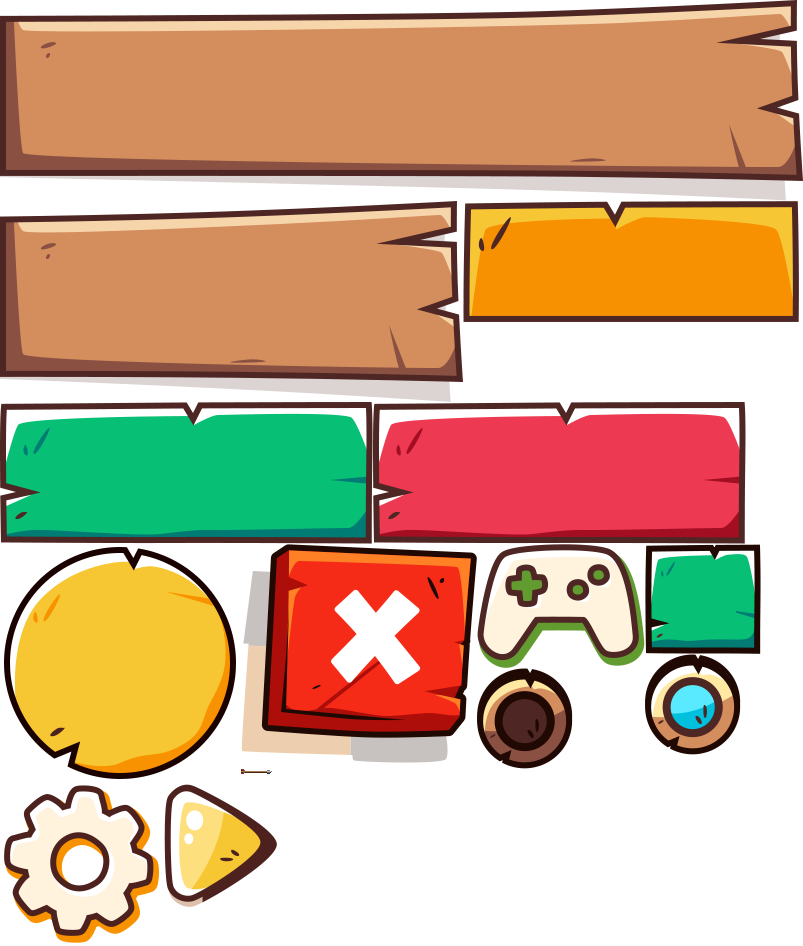
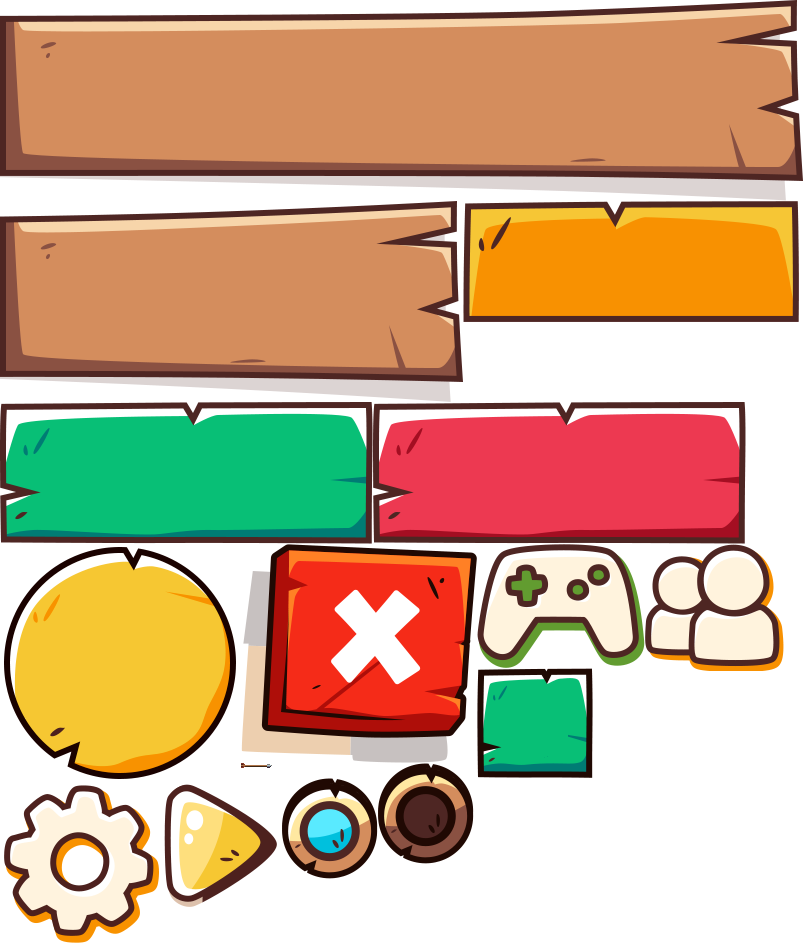
feat: admin button wip

Changed region(s): [[0.3425, 0.7051, 0.7472, 0.9503], [0.7783, 0.5518, 0.9963, 0.797], [0.3113, 0.797, 0.3425, 0.8277]]

diff --git a/src/rpg-multiplayer-game/src/client/src/phaser-client/scenes/Hud.ts b/src/rpg-multiplayer-game/src/client/src/phaser-client/scenes/Hud.ts
@@ -9,6 +9,8 @@ import FontKeys from '../consts/FontKeys';
 import EndOfVotingMenu from '../classes/EndOfVotingMenu';
 import SceneKeys from '../consts/SceneKeys';
 import Modal from '../classes/Modal';
+import UIButton from '../classes/UIButton';
+import UIAdminButton from '../classes/UIAdminButton';
 
 export default class Hud extends Phaser.Scene {
   private votingStats!: Phaser.GameObjects.Group;
@@ -64,53 +66,48 @@ export default class Hud extends Phaser.Scene {
       .onCancel(() => this.newFightModal.hideButtons())
       .onOpen(() => {
         settingsButton.setVisible(false);
-        settingsWheelIcon.setVisible(false);
+        adminSettingsButton.setVisible(false);
         this.votingStats.setVisible(false);
         gameState.playerCanMove = false;
       })
       .onClose(() => {
         settingsButton.setVisible(true);
-        settingsWheelIcon.setVisible(true);
+        adminSettingsButton.setVisible(true);
         this.votingStats.setVisible(false);
         gameState.playerCanMove = true;
       });
 
-    const settingsButton = this.add
-      .image(width - 10, 10, TextureKeys.UIMenu1, 'yellow-button')
-      .setScale(0.2)
-      .setOrigin(1, 0);
-    const settingsWheelIcon = this.add
-      .image(width - 17, 17, TextureKeys.UIMenu1, 'wheel-icon')
-      .setScale(0.2)
-      .setOrigin(1, 0);
+    const settingsButton = new UIButton(
+      this,
+      width - 55,
+      10,
+      TextureKeys.UIMenu1,
+      'wheel-icon',
+      () => this.settingsMenu.toggleMenu(),
+    );
+    this.add.existing(settingsButton);
 
-    settingsButton
-      .setInteractive({ useHandCursor: true })
-      .on(Phaser.Input.Events.GAMEOBJECT_POINTER_OVER, () => {
-        settingsButton.setTint(0xdedede);
-      })
-      .on(Phaser.Input.Events.GAMEOBJECT_POINTER_OUT, () => {
-        settingsButton.setTint(0xffffff);
-      })
-      .on(Phaser.Input.Events.GAMEOBJECT_POINTER_DOWN, () => {
-        settingsButton.setTint(0xf4bf19);
-      })
-      .on(Phaser.Input.Events.GAMEOBJECT_POINTER_UP, () => {
-        settingsButton.setTint(0xffffff);
-        this.settingsMenu.toggleMenu();
-      });
+    const adminSettingsButton = new UIAdminButton(
+      this,
+      width - 110,
+      10,
+      TextureKeys.UIMenu1,
+      'people-icon',
+      () => console.log('click'),
+    );
+    this.add.existing(adminSettingsButton);
 
     this.settingsMenu = new SettingsMenu(this);
     this.endOfVotingMenu = new EndOfVotingMenu(this);
     this.endOfVotingMenu
       .onOpen(() => {
         settingsButton.setVisible(false);
-        settingsWheelIcon.setVisible(false);
+        adminSettingsButton.setVisible(false);
         gameState.playerCanMove = false;
       })
       .onClose(() => {
         settingsButton.setVisible(true);
-        settingsWheelIcon.setVisible(true);
+        adminSettingsButton.setVisible(true);
         gameState.playerCanMove = true;
       });
 
@@ -171,7 +168,10 @@ export default class Hud extends Phaser.Scene {
 
   setPendingVotersLabel() {
     const labels: string[] = [];
-    if (gameVotingManager.totalVotes === 0 || gameVotingManager.pendingVotes === 0) {
+    if (
+      gameVotingManager.totalVotes === 0 ||
+      gameVotingManager.pendingVotes === 0
+    ) {
       this.pendingVotersLabel.setText('').setVisible(false);
       return;
     }
@@ -182,7 +182,7 @@ export default class Hud extends Phaser.Scene {
 
       labels.push(`${player.username}`);
     }
-    
+
     this.pendingVotersLabel
       .setText('Waiting votes from: ' + labels.join(', '))
       .setVisible(true);

diff --git a/src/rpg-multiplayer-game/src/client/src/phaser-client/classes/UIButton.ts b/src/rpg-multiplayer-game/src/client/src/phaser-client/classes/UIButton.ts
@@ -1,0 +1,79 @@
+import Phaser from 'phaser';
+import TextureKeys from '../consts/TextureKeys';
+
+export default class UIButton extends Phaser.GameObjects.Container {
+  protected button!: Phaser.GameObjects.Image;
+  protected icon!: Phaser.GameObjects.Image;
+  protected onInteraction: () => void;
+
+  constructor(
+    scene: Phaser.Scene,
+    x: number,
+    y: number,
+    iconTexture: string | Phaser.Textures.Texture,
+    iconFrame: string | number | undefined,
+    onInteraction?: () => void,
+  ) {
+    super(scene, x, y);
+
+    this.createButton(iconTexture, iconFrame);
+
+    this.onInteraction = onInteraction || (() => {});
+    this.setInteraction();
+  }
+
+  protected createButton(
+    iconTexture: string | Phaser.Textures.Texture,
+    iconFrame: string | number | undefined,
+  ): void {
+    // Create button
+    this.button = this.scene.make
+      .image({
+        key: TextureKeys.UIMenu1,
+        frame: 'yellow-button',
+      })
+      .setScale(0.2)
+      .setOrigin(0, 0);
+
+    // Create Icon
+    this.icon = this.scene.make
+      .image({
+        x: this.button.displayWidth * 0.5,
+        y: this.button.displayHeight * 0.5,
+        key: iconTexture,
+        frame: iconFrame,
+      })
+      .setScale(0.2)
+      .setOrigin(0.5, 0.5);
+
+    // Add images to container
+    this.add([this.button, this.icon]);
+  }
+
+  protected setInteraction(): void {
+    const hitArea = new Phaser.Geom.Circle(
+      this.button.displayWidth * 0.5,
+      this.button.displayHeight * 0.5,
+      this.button.displayWidth * 0.5 - 1,
+    );
+
+    this.setInteractive({
+      hitArea,
+      hitAreaCallback: Phaser.Geom.Circle.Contains,
+      useHandCursor: true,
+    })
+      .on(Phaser.Input.Events.GAMEOBJECT_POINTER_OVER, () => {
+        this.button.setTint(0xdedede);
+      })
+      .on(Phaser.Input.Events.GAMEOBJECT_POINTER_OUT, () => {
+        this.button.setTint(0xffffff);
+      })
+      .on(Phaser.Input.Events.GAMEOBJECT_POINTER_DOWN, () => {
+        this.button.setTint(0xf4bf19);
+      })
+      .on(Phaser.Input.Events.GAMEOBJECT_POINTER_UP, () => {
+        this.button.setTint(0xffffff);
+        this.onInteraction();
+      });
+  }
+}

diff --git a/src/rpg-multiplayer-game/src/client/src/phaser-client/scenes/Game.ts b/src/rpg-multiplayer-game/src/client/src/phaser-client/scenes/Game.ts
@@ -63,7 +63,7 @@ export default class Game extends Phaser.Scene {
   private restOfPlayersThrowableWeapons!: Phaser.Physics.Arcade.Group;
 
   // Settings selected in the login page
-  playerSettings: PlayerSettings;
+  private playerSettings: PlayerSettings;
 
   // SocketIO client
   private socket!: Socket;
@@ -116,11 +116,12 @@ export default class Game extends Phaser.Scene {
 
     // Login page settings
     const { getState } = useStore;
-    const { username, avatar: avatarName, isVoter } = getState();
+    const { username, avatar: avatarName, isVoter, isAdmin } = getState();
     this.playerSettings = {
       username,
       avatarName: avatarName as AvatarKeys,
       isVoter,
+      isAdmin,
       hidePlayersWhileVoting: true,
     };
   }
@@ -468,6 +469,7 @@ export default class Game extends Phaser.Scene {
             username: gameState.currentPlayer.username,
             avatarName: gameState.currentPlayer.avatarName,
             isVoter: gameState.currentPlayer.isVoter,
+            isAdmin: gameState.currentPlayer.isAdmin,
             hidePlayersWhileVoting:
               gameState.currentPlayer.hidePlayersWhileVoting,
           };

diff --git a/src/rpg-multiplayer-game/src/client/src/phaser-client/classes/UIAdminButton.ts b/src/rpg-multiplayer-game/src/client/src/phaser-client/classes/UIAdminButton.ts
@@ -1,0 +1,33 @@
+import Phaser from 'phaser';
+import UIButton from './UIButton';
+
+export default class UIAdminButton extends UIButton {
+  protected createButton(
+    iconTexture: string | Phaser.Textures.Texture,
+    iconFrame: string | number | undefined,
+  ): void {
+    super.createButton(iconTexture, iconFrame);
+    this.button.setTint(0xd9534f);
+  }
+
+  protected setInteraction(): void {
+    super.setInteraction();
+
+    // Remove parent listeners
+    this.removeAllListeners();
+
+    this.on(Phaser.Input.Events.GAMEOBJECT_POINTER_OVER, () => {
+      this.button.setTint(0xae423f);
+    })
+      .on(Phaser.Input.Events.GAMEOBJECT_POINTER_OUT, () => {
+        this.button.setTint(0xd9534f);
+      })
+      .on(Phaser.Input.Events.GAMEOBJECT_POINTER_DOWN, () => {
+        this.button.setTint(0xc34b47);
+      })
+      .on(Phaser.Input.Events.GAMEOBJECT_POINTER_UP, () => {
+        this.button.setTint(0xd9534f);
+        this.onInteraction();
+      });
+  }
+}

diff --git a/src/rpg-multiplayer-game/src/client/src/phaser-client/types/playerTypes.ts b/src/rpg-multiplayer-game/src/client/src/phaser-client/types/playerTypes.ts
@@ -56,6 +56,7 @@ export interface PlayerSettings {
   username: string;
   avatarName: AvatarKeys;
   isVoter: boolean;
+  isAdmin: boolean;
   hidePlayersWhileVoting: boolean;
 }
 
